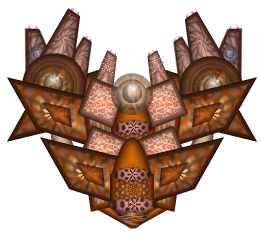
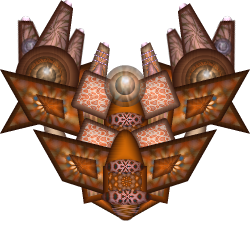
[Feat] Implentation of sprites !

diff --git a/client/state_machine/states/game/Game.cpp b/client/state_machine/states/game/Game.cpp
@@ -39,6 +39,7 @@
 
 #include "systems/Systems.hpp"
 #include <cstdint>
+#include <cstdlib>
 #include <memory>
 #include <queue>
 #include <utility>
@@ -79,6 +80,8 @@ auto Game::init_systems() -> void
         (renderHTiledTexture, std::ref(this->clientManager.getGui()));
     this->registry.add_render_system<Position, HitBox, ElementColor>
         (renderSquare, std::ref(this->getGraphicalLibrary()));
+    this->registry.add_render_system<Position, HitBox, gl::AnimatedSprite>
+        (renderAnimatedSprite, std::ref(this->getGraphicalLibrary()));
     this->registry.add_render_system<Laser, Dependence, ElementColor>
         (renderLaser, std::ref(this->getGraphicalLibrary()));
     this->registry.add_render_system<Position, PlayerId>
@@ -140,9 +143,13 @@ auto Game::newPlayer(std::string name, std::size_t player_id,
     this->sync.add(laser.getId(), laser_id);
     r.add_component<Position>(player, {-200, -500});
     r.add_component<HitBox>(player, {20, 20});
-    r.add_component<ElementColor>(player, {gl::WHITE});
+    //r.add_component<ElementColor>(player, {gl::WHITE});
     r.add_component<Health>(player, {0, 0});
     r.add_component<PlayerId>(player, {name});
+    gl::AnimatedSprite playerSprite =
+        this->clientManager.getAnimatedSpriteTemplate("player");
+    playerSprite.verticalIndex = 1;
+    r.add_component<gl::AnimatedSprite>(player, playerSprite);
 
     r.add_component<Dependence>(laser, {player.getId()});
     r.add_component<Laser>(laser, {true, 30});
@@ -161,11 +168,19 @@ auto Game::newEnemy(std::size_t enemy_id, EnemyType type) -> void
     this->sync.add(enemy.getId(), enemy_id);
     r.add_component<Position>(enemy, {-200, -200});
     r.add_component<HitBox>(enemy, {50, 50});
-    gl::Color color = gl::MAGENTA;
 
-    if (type == EnemyType::Boss)
-        color.r = 100;
-    r.add_component<ElementColor>(enemy, {color});
+    gl::AnimatedSprite sprite;
+    switch (type) {
+    case EnemyType::Boss:
+        sprite = this->clientManager.getAnimatedSpriteTemplate("boss");
+        break;
+    case EnemyType::Enemy:
+        sprite = this->clientManager.getAnimatedSpriteTemplate("enemy");
+        sprite.verticalIndex = rand() % 2;
+        break;
+    }
+    r.add_component<gl::AnimatedSprite>(enemy, sprite);
+    //r.add_component<ElementColor>(enemy, {color});
     r.add_component<Health>(enemy, {0, 0});
 }
 
@@ -184,7 +199,7 @@ auto Game::newBullet(std::vector<StraightMovingEntity> entities) -> void
             static_cast<float>(entity.hitbox_x),
             static_cast<float>(entity.hitbox_y)
         });
-        r.add_component<ElementColor>(bullet, {gl::BLUE});
+        //r.add_component<ElementColor>(bullet, {gl::BLUE});
         r.add_component<StraightMovingComp>(bullet, {
             .pos_x_0 = entity.pos_x,
             .pos_y_0 = entity.pos_y,
@@ -192,6 +207,10 @@ auto Game::newBullet(std::vector<StraightMovingEntity> entities) -> void
             .vel_y = entity.vel_y,
             .ms_time = entity.ms_time
         });
+        gl::AnimatedSprite sprite =
+            this->clientManager.getAnimatedSpriteTemplate("shot");
+        sprite.verticalIndex = rand() % 2;
+        r.add_component<gl::AnimatedSprite>(bullet, sprite);
     }
 }
 

diff --git a/client/state_machine/states/game/systems/RenderAnimatedSprite.cpp b/client/state_machine/states/game/systems/RenderAnimatedSprite.cpp
@@ -1,0 +1,33 @@
+/*
+** EPITECH PROJECT, 2025
+** rtype
+** File description:
+** render animatedSprite
+*/
+
+#include "ecs/regisrty/Registry.hpp"
+
+#include "shared/components/Position.hpp"
+#include "shared/components/HitBox.hpp"
+
+#include <graphical_library/api/GraphicalLibrary.hpp>
+
+auto renderAnimatedSprite([[maybe_unused]] Registry &reg,
+    containers::indexed_zipper<SparseArray<Position>,
+                               SparseArray<HitBox>,
+                               SparseArray<gl::AnimatedSprite>> zip,
+                  gl::GraphicalLibrary &gl)
+-> void
+{
+    int height = (int) gl.get_window_size().y;
+    for (auto &&[_, pos, size, sprite] : zip) {
+            gl::WorldPosition realPos = {
+                (float) (pos->x - (size->height / 2.0)),
+                (float) ((float) height - pos->y - (size->width / 2.0))
+            };
+        sprite->pos.x = (int) realPos.x;
+        sprite->pos.y = (int) realPos.y;
+        sprite->finalHeight = (int) size->height;
+        gl.draw(std::ref(*sprite));
+    }
+}

diff --git a/client/manager/ClientManager.cpp b/client/manager/ClientManager.cpp
@@ -73,7 +73,7 @@ ClientManager::ClientManager()
         .finalHeight = 10,
         .pos = { 0, 0 },
         .rotation = 0.0,
-        .animationSpeed = 1,
+        .animationSpeed = 3,
 
         .verticalIndex = 0,
         .animationCurrentStep = 0,
@@ -81,12 +81,12 @@ ClientManager::ClientManager()
     };
     this->animatedSprites["shot"] = {
         .name = "shot",
-        .verticalChoices = 4,
-        .animationSteps = 1,
+        .verticalChoices = 2,
+        .animationSteps = 2,
         .finalHeight = 10,
         .pos = { 0, 0 },
         .rotation = 0.0,
-        .animationSpeed = 1,
+        .animationSpeed = 5,
 
         .verticalIndex = 0,
         .animationCurrentStep = 0,

diff --git a/ecs/regisrty/Registry.hpp b/ecs/regisrty/Registry.hpp
@@ -50,7 +50,7 @@ class Registry
 
     template <class Component>
     typename SparseArray<Component>::reference_type
-    add_component(Entity const& to, Component&& c);
+    add_component(Entity const& to, Component c);
 
     template <class Component, typename... Params>
     typename SparseArray<Component>::reference_type
@@ -159,7 +159,7 @@ SparseArray<Component> const& Registry::get_components() const
 
 template <class Component>
 typename SparseArray<Component>::reference_type
-Registry::add_component(Entity const& to, Component&& c)
+Registry::add_component(Entity const& to, Component c)
 {
     auto& components = get_components<Component>();
     size_t id = static_cast<size_t>(to);

diff --git a/graphical_library/raylib/Raylib.cpp b/graphical_library/raylib/Raylib.cpp
@@ -298,7 +298,7 @@ auto Raylib::draw(gl::AnimatedSprite &sprite) -> void
     float dt = this->getDeltaTime();
     raylib::Texture rtext = this->textures[sprite.name].second;
     gl::Texture gltext = this->textures[sprite.name].first;
-    gltext.scale = (float) sprite.finalHeight / (float) gltext.size.y
+    gltext.scale = ((float) sprite.finalHeight / (float) gltext.size.y)
         * (float) sprite.verticalChoices;
 
     sprite.timeUntilNextStep -= dt;

diff --git a/client/state_machine/states/game/systems/Systems.hpp b/client/state_machine/states/game/systems/Systems.hpp
@@ -91,4 +91,11 @@ auto renderPacketLoss([[maybe_unused]] Registry &r,
     NetworkManager &nm
 ) -> void;
 
+auto renderAnimatedSprite([[maybe_unused]] Registry &reg,
+    containers::indexed_zipper<SparseArray<Position>,
+                               SparseArray<HitBox>,
+                               SparseArray<gl::AnimatedSprite>> zip,
+                  gl::GraphicalLibrary &gl)
+-> void;
+
 #endif /* RENDER_SYSTEMS_HPP */
